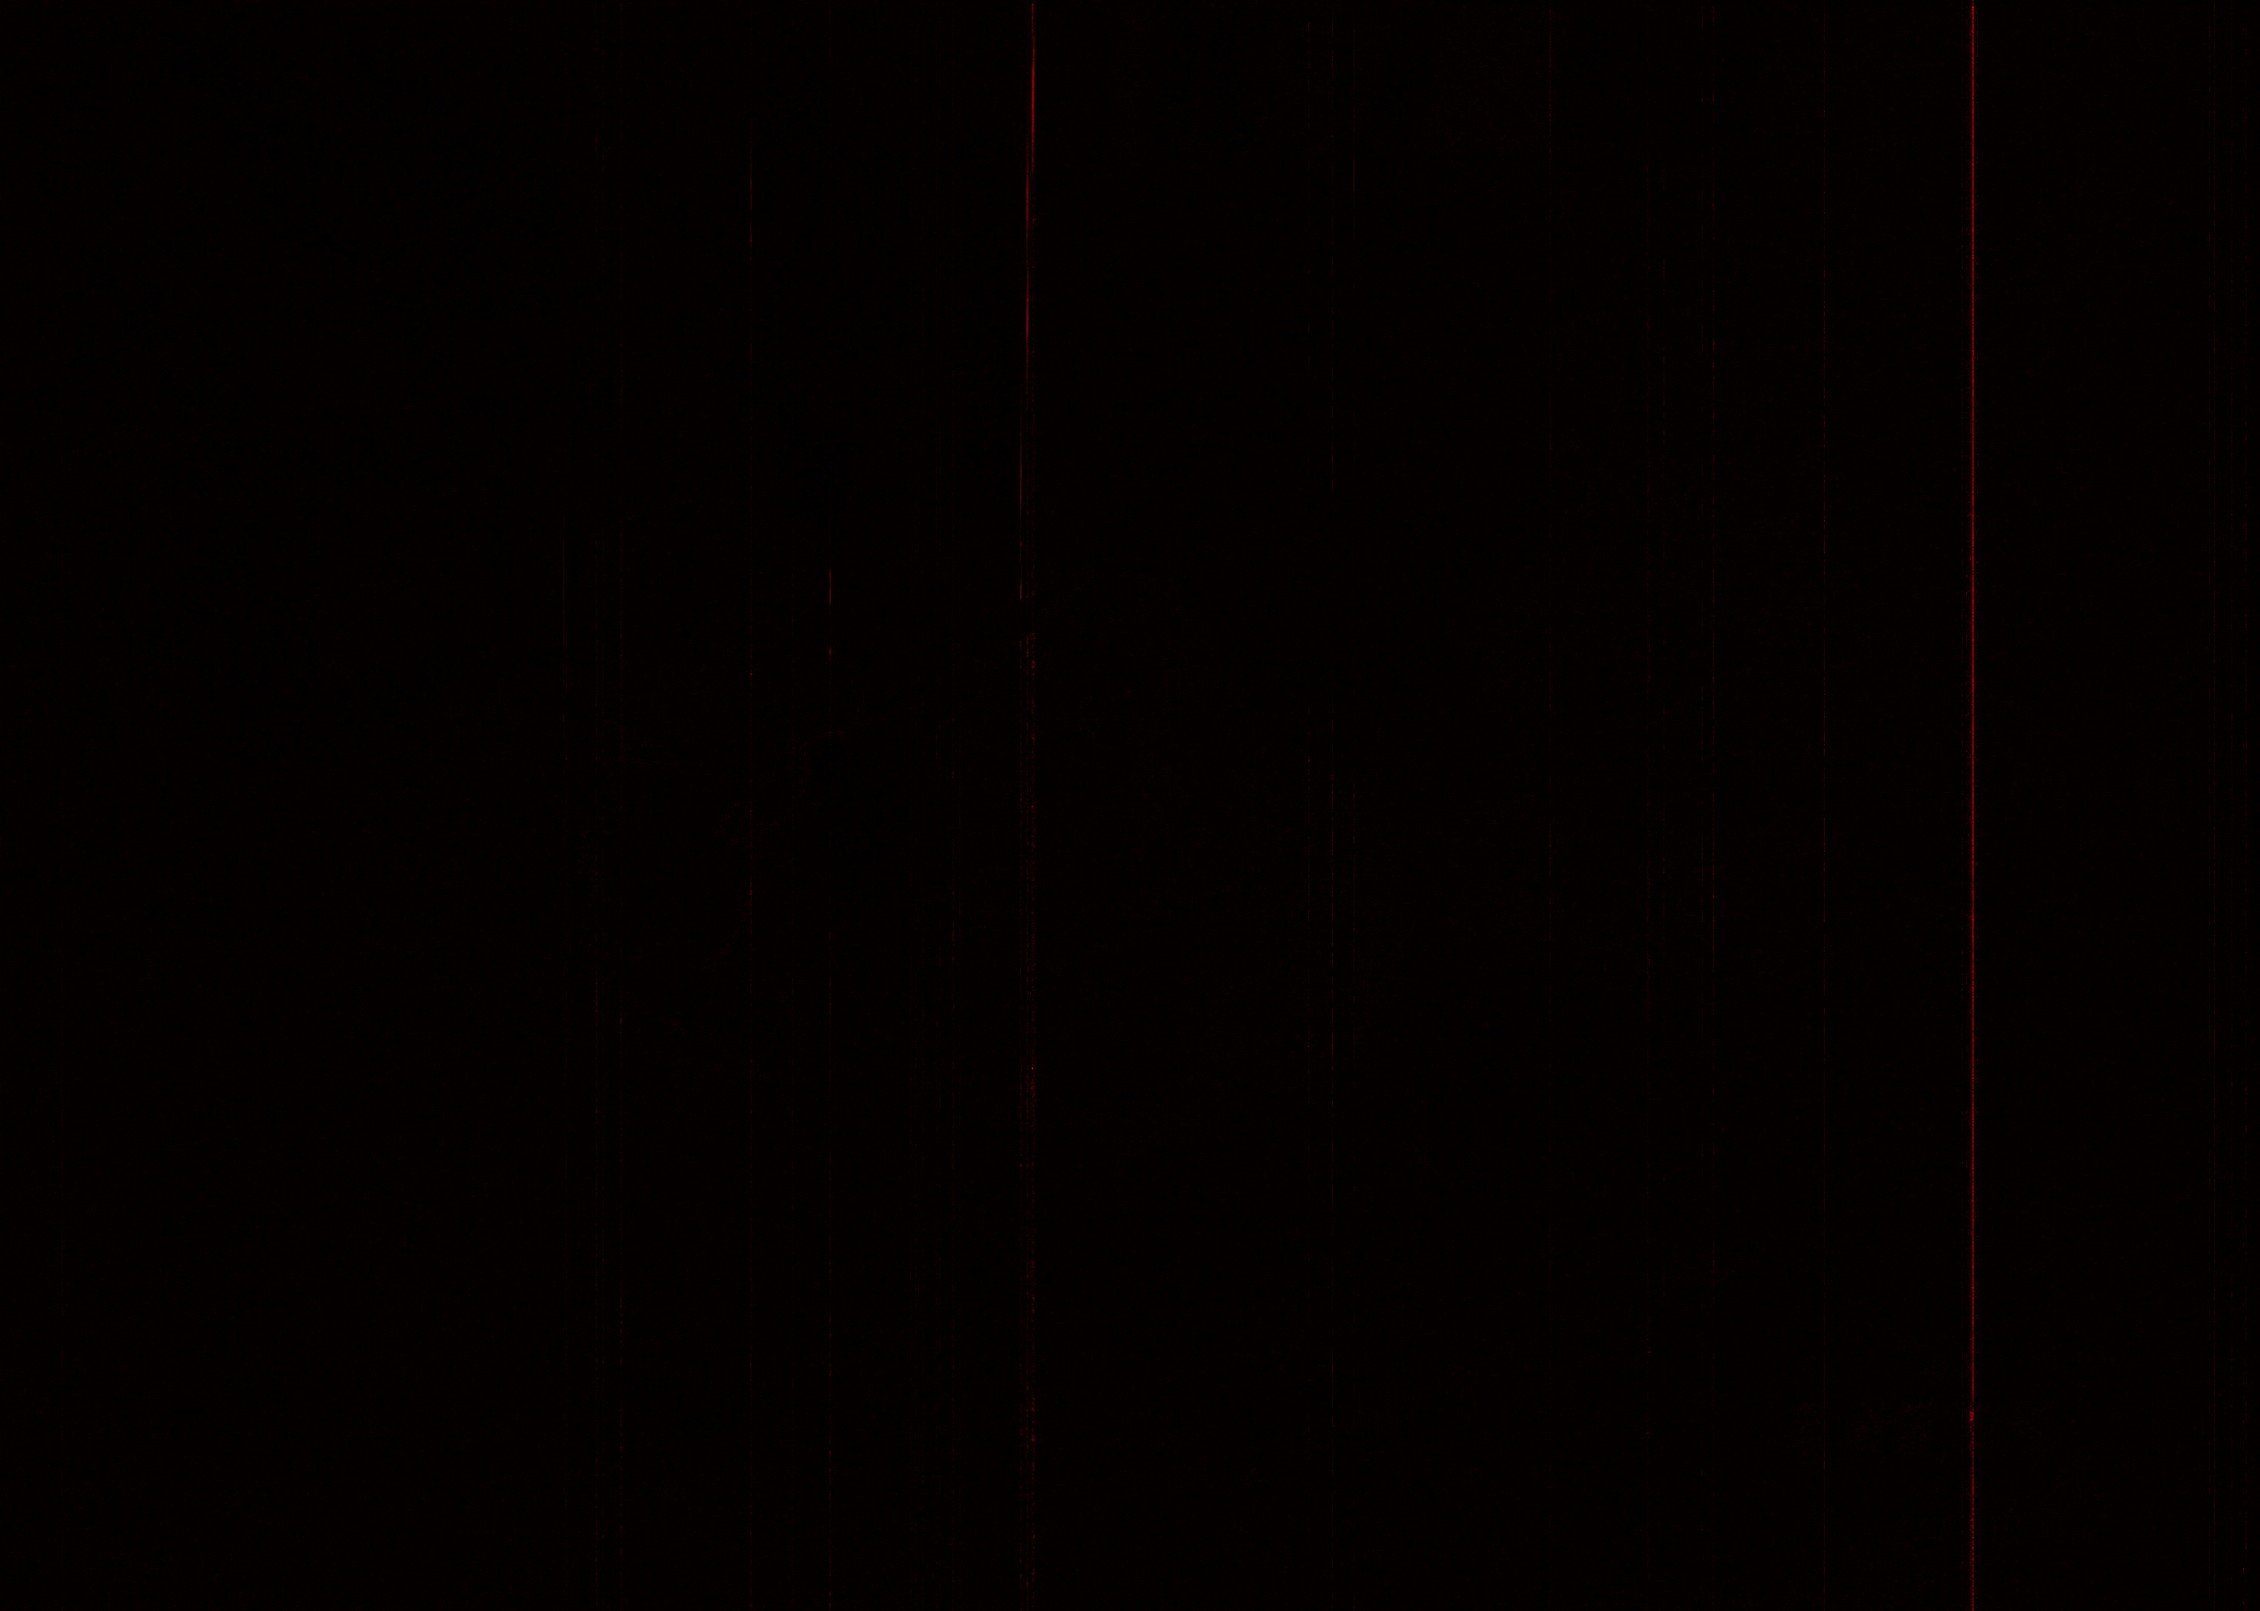
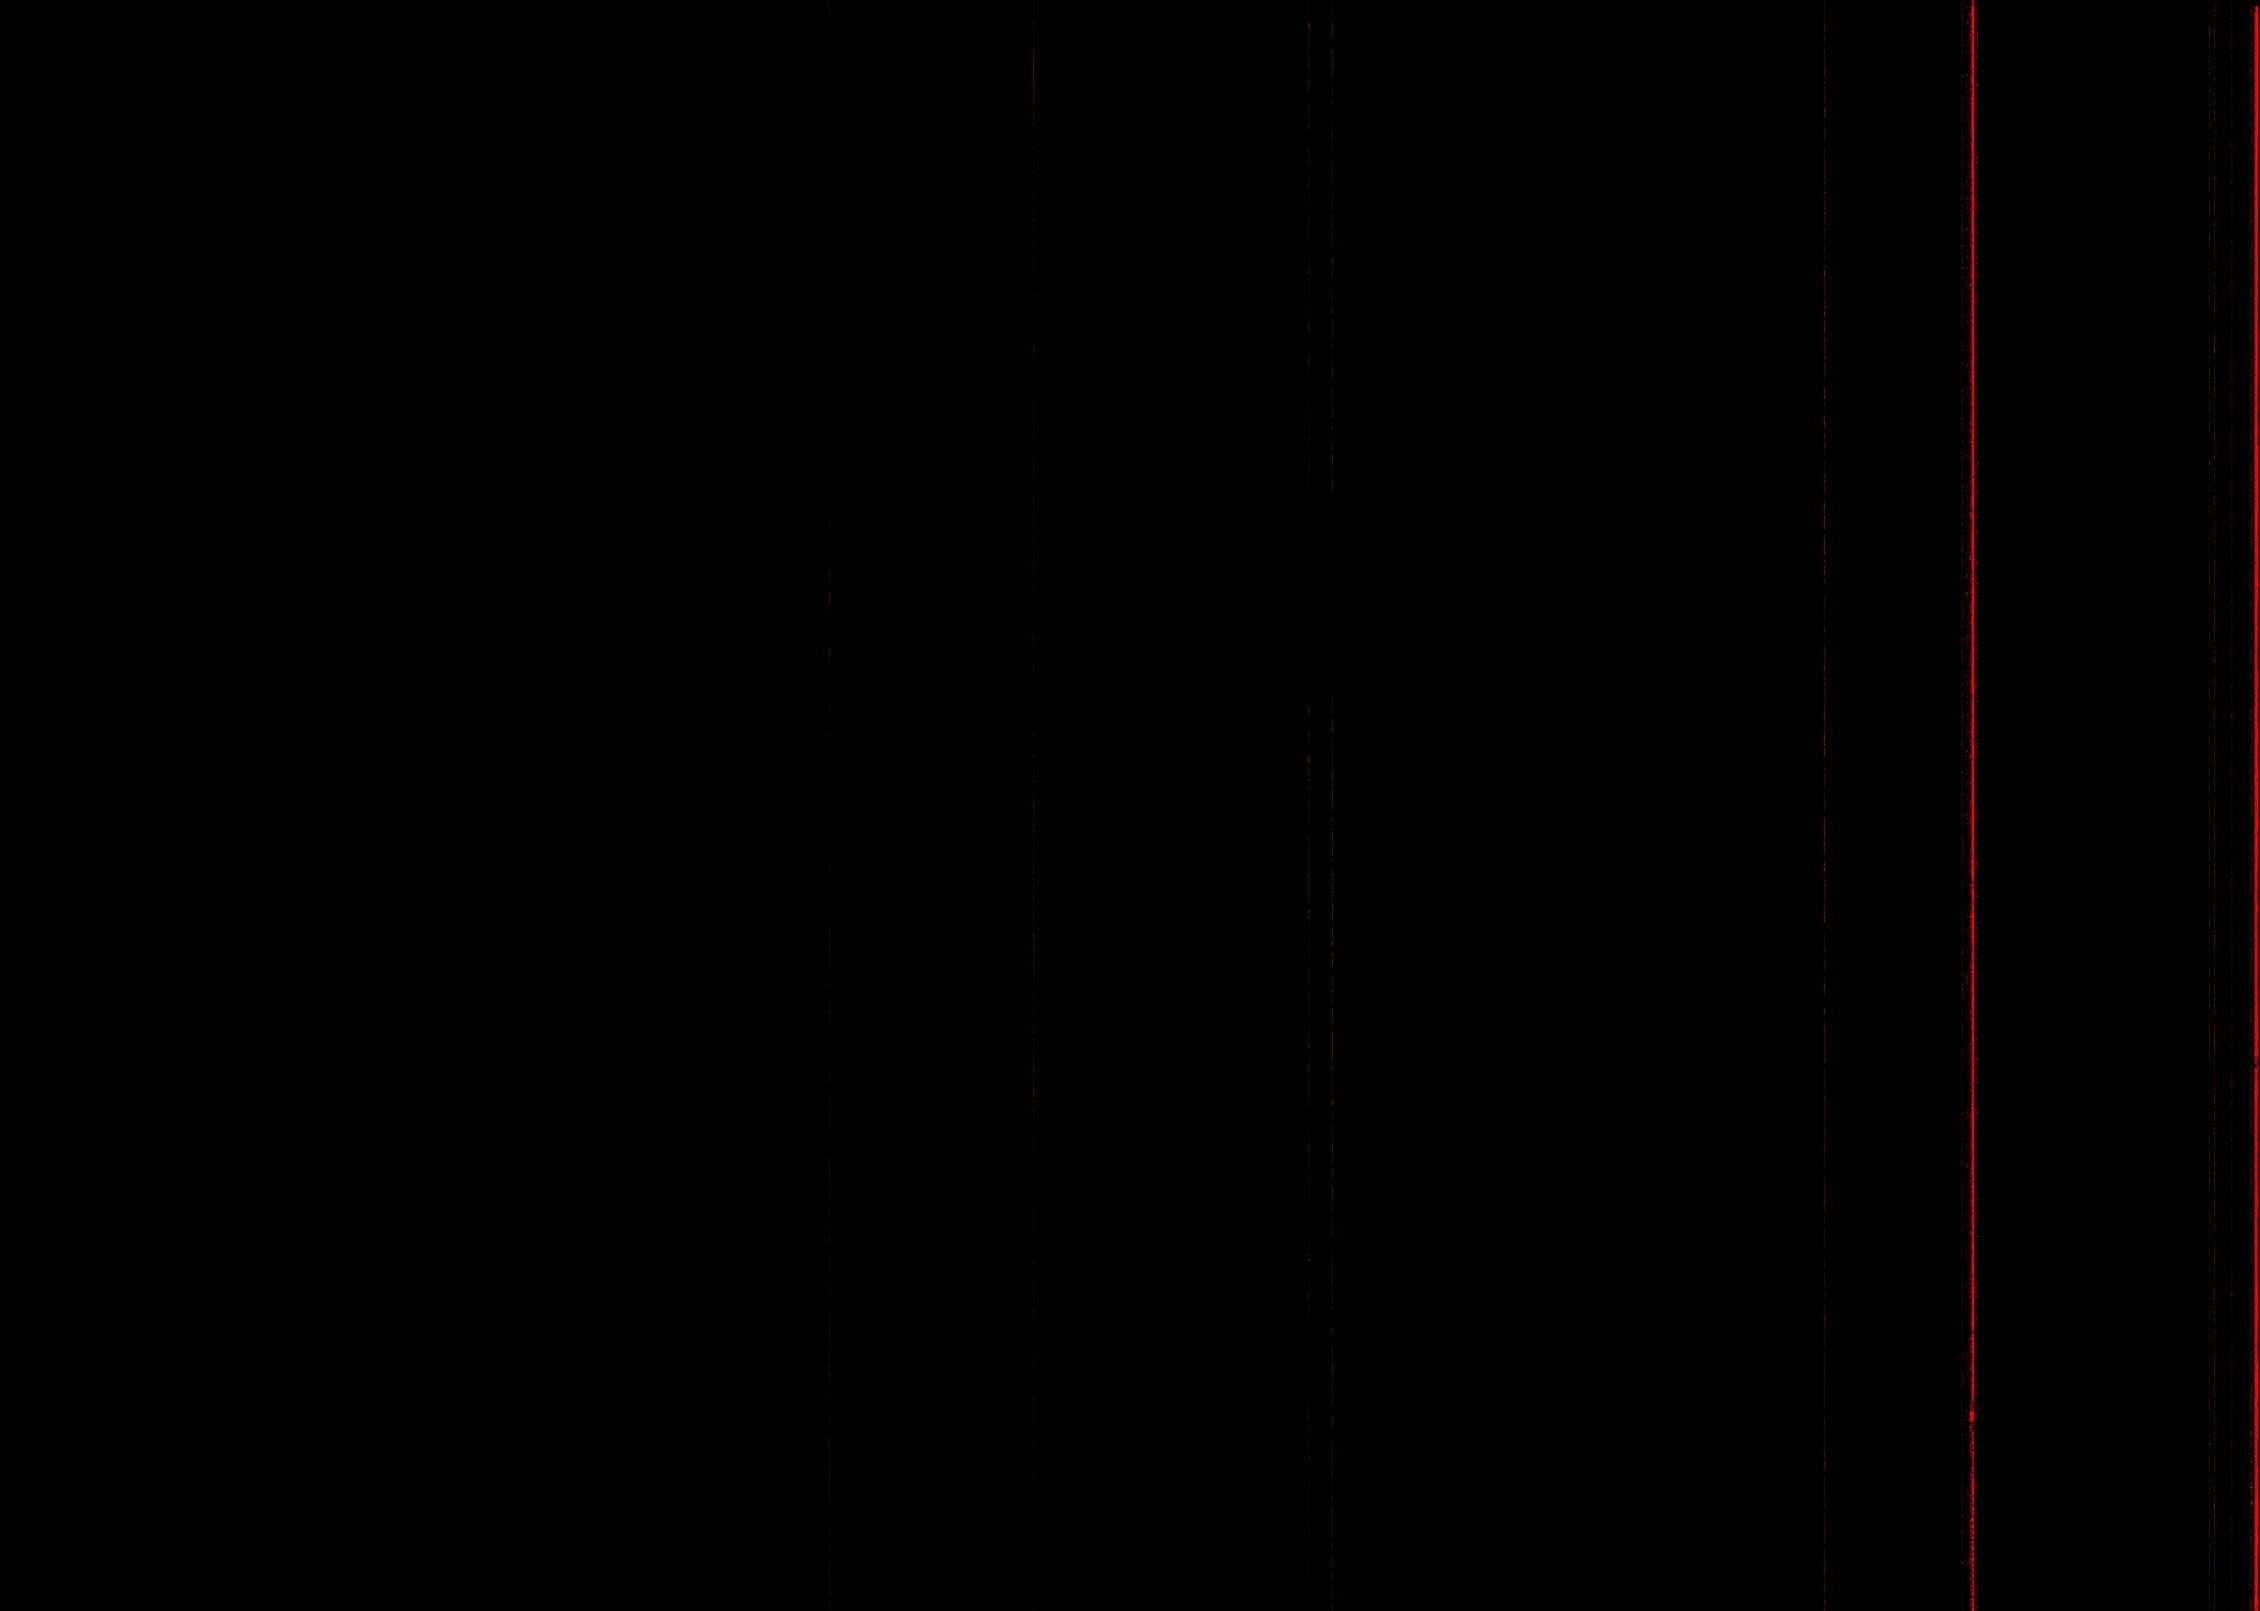
Make detection more conservative to reduce false positives on MattChildhood_0043 image

Changed region(s): [[0.9905, 0.0, 1.0, 1.0]]

diff --git a/src/streaker.py b/src/streaker.py
@@ -33,19 +33,19 @@ def remove_streaks(image_path, output_path):
     for x in candidates.tolist():
         residual = l_chan[:, x] - 0.5 * (l_chan[:, x - 1] + l_chan[:, x + 1])
         r_med = float(np.median(residual))
-        if abs(r_med) < 0.3:  # More sensitive for faint streaks
+        if abs(r_med) < 0.8:  # More conservative - only strong streaks
             continue
-        strong = np.abs(residual) > 0.3  # More sensitive for faint streaks
+        strong = np.abs(residual) > 0.8  # More conservative - only strong streaks
         if not np.any(strong):
             continue
         same_sign = (np.sign(residual) == np.sign(r_med)) & strong
-        if float(np.mean(same_sign)) < 0.25:  # More lenient for partial streaks
+        if float(np.mean(same_sign)) < 0.40:  # More conservative - require consistency
             continue
         
         # Check if the streak covers a reasonable portion of the height
         strong_rows = np.sum(strong)
         height_ratio = strong_rows / h
-        if height_ratio < 0.2:  # At least 20% of image height
+        if height_ratio < 0.3:  # Require more of the column to be affected
             continue
             
         good_cols.append(x)
